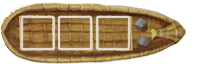
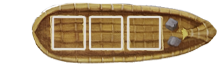
finalized ship layout & docking position

diff --git a/src/app/game/site-harbour/site-harbour.component.css b/src/app/game/site-harbour/site-harbour.component.css
@@ -3,7 +3,7 @@
   width: 50%;
   float: left;
   float: right;
-  border: 1px solid blue;
+  margin-left: -50%;
 }
 
 .dock_space{
@@ -16,32 +16,36 @@
 
 #arriving_harbours{float:left; width: 100%; height:100%;}
 #arriving_harbour_1 {
-  width: 200%;
+  width: 300%;
   height: 25%;
-  transform: scale(1, 1);
-  background-color: rgba(100, 100, 0, 0.5);
-  padding-top: 105%;
+  padding-top: 25%;
+  padding-bottom: 25%;
+  padding-left: -100%;
+  margin-left: -100%;
 }
 #arriving_harbour_2 {
-  width: 200%;
+  width: 300%;
   height: 25%;
-  transform: scale(1, 1);
-  background-color: rgba(100, 100, 0, 0.5);
-  padding-top: 80%;
+  padding-top: 25%;
+  padding-bottom: 25%;
+  padding-left: -100%;
+  margin-left: -100%;
 }
 #arriving_harbour_3 {
-  width: 200%;
+  width: 300%;
   height: 25%;
-  transform: scale(1, 1);
-  background-color: rgba(100, 100, 0, 0.5);
-  padding-top: 75%;
+  padding-top: 25%;
+  padding-bottom: 25%;
+  padding-left: -100%;
+  margin-left: -100%;
 }
 #arriving_harbour_4 {
-  width: 200%;
+  width: 300%;
   height: 25%;
-  transform: scale(1, 1);
-  background-color: rgba(100, 100, 0, 0.5);
-  padding-top: 100%;
+  padding-top: 25%;
+  padding-bottom: 25%;
+  padding-left: -100%;
+  margin-left: -100%;
 }
 
 #ship_1{position:relative; top:30%; left:30%; width:30%; height:30%}

diff --git a/src/app/game/departing-harbour/departing-harbour.component.css b/src/app/game/departing-harbour/departing-harbour.component.css
@@ -2,9 +2,26 @@
   float:left;
   width: 100%;
   height:100%;
+  padding-left: 1%;
 }
-#departing_harbour_1_{width: 100%; height:25%; }
-#departing_harbour_2_{width: 100%; height:25%; }
-#departing_harbour_3_{width: 100%; height:25%; }
-#departing_harbour_4_{width: 100%; height:25%; }
+
+#departing_harbour_1_{
+  width: 100%;
+  height:25%;
+}
+
+#departing_harbour_2_{
+  width: 100%;
+  height:25%;
+}
+
+#departing_harbour_3_{
+  width: 100%;
+  height:25%;
+}
+
+#departing_harbour_4_{
+  width: 100%;
+  height:25%;
+}
 

diff --git a/src/app/game/departing-harbour/departing-harbour.component.ts b/src/app/game/departing-harbour/departing-harbour.component.ts
@@ -40,7 +40,7 @@ export class DepartingHarbourComponent {
       shipImgNode.style.position="relative";
       shipImgNode.style.height="50%";
       shipImgNode.style.top="25%";
-      shipImgNode.style.left="10%";
+      shipImgNode.style.left="0%";
 
       function drag(ev) {
 
